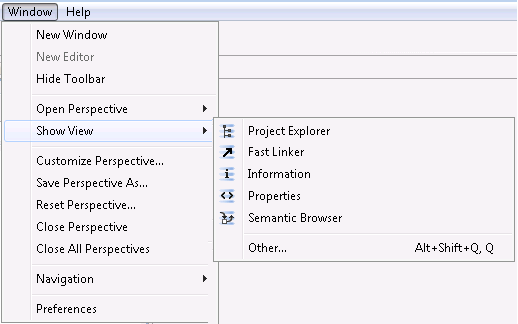
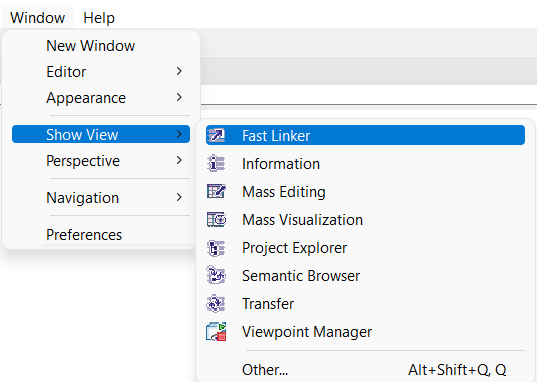
#2570 Added Viewpoint Manager view in "Show view" menu
Modified Perspective to include this shortcut

Updated doc

diff --git a/doc/plugins/org.polarsys.capella.viewpoint.doc/html/activation/activation.html b/doc/plugins/org.polarsys.capella.viewpoint.doc/html/activation/activation.html
@@ -8,12 +8,9 @@
 	<body>
 		<h2 id="Activation">Activation</h2>
 		<p>To use Viewpoints, each projects must activate them by using the Viewpoint Manager view:</p>
-		<p>Windows &gt; Show View &gt; Other... &gt; Kitalpha &gt; Viewpoint Manager</p>
+		<p>Windows &gt; Show View &gt; Viewpoint Manager</p>
 		<p>
-			<img border="0" src="../Images/Windows_ShowView_Other.png"/>
-		</p>
-		<p>
-			<img border="0" src="../Images/ShowView_ViewpointManager.png"/>
+			<img border="0" src="../Images/Windows_ShowView.png"/>
 		</p>
 		<p>All Viewpoints installed are listed in this view:</p>
 		<p>
